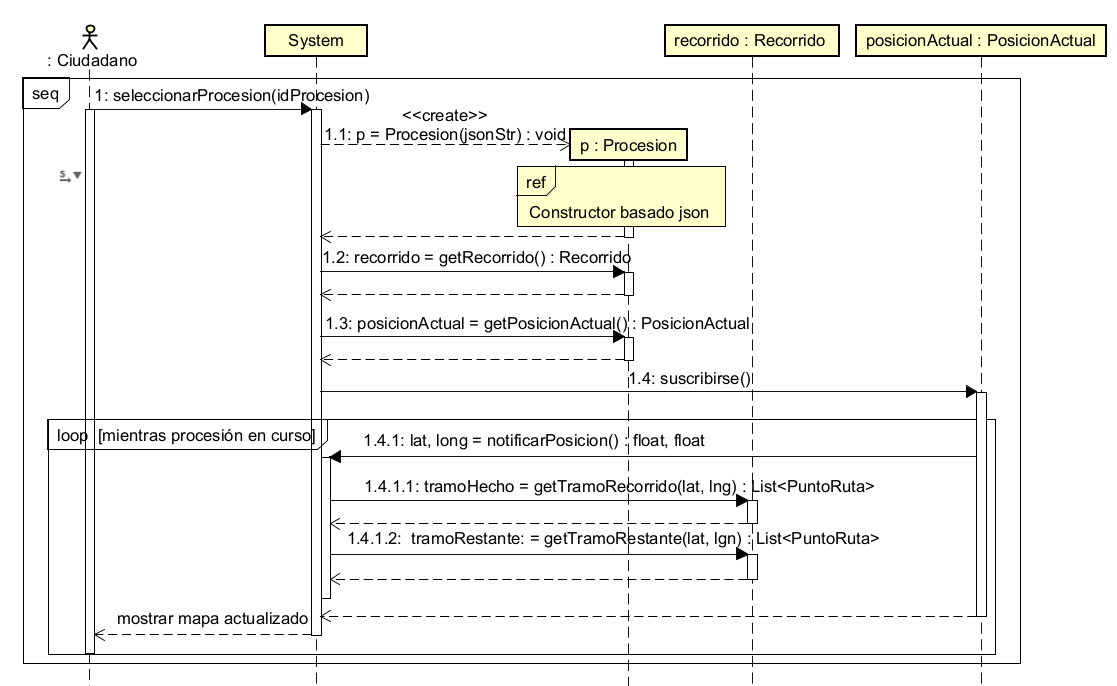
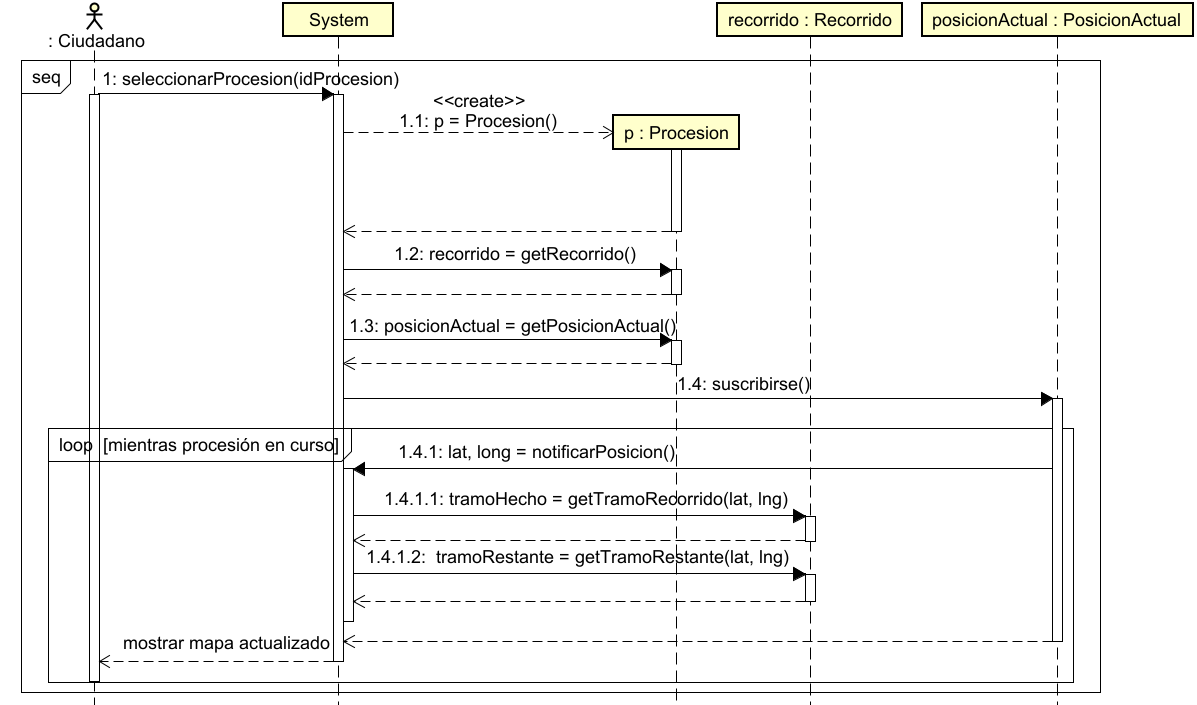
Add digramas de secuencia

diff --git a/memoria/apendices/casosDeUsoAdiccionales.tex b/memoria/apendices/casosDeUsoAdiccionales.tex
@@ -46,38 +46,40 @@ ef{cap:casos_de_uso}). Cada uno de ellos sigue la misma estructura que los prese
 
     \begin{tabular}{|p{4cm}|p{11cm}|}
         \hline
-        \multicolumn{2}{|l|}{\textbf{Caso de uso: Acceso como cofrade}}                                                                   \\
+        \multicolumn{2}{|l|}{\textbf{Caso de uso: Generar ruta hacia procesión}}                                \\
         \hline
-        \textbf{Resumen}                                                                                                                 & Un usuario se registra en la aplicación como miembro de una cofradía. \\
+        \textbf{Resumen}                                                                                       & El usuario genera una ruta desde su ubicación hasta una procesión.      \\
         \hline
-        \textbf{Actor}                                                                                                                   & Cofrade                                                               \\
+        \textbf{Actor}                                                                                         & Ciudadano                                                               \\
         \hline
-        \textbf{Precondición}                                                                                                            & El usuario no está registrado.                                        \\
+        \textbf{Precondición}                                                                                  & El usuario tiene permisos de ubicación y hay una procesión seleccionada \\
         \hline
-        \textbf{Postcondición}                                                                                                           & El usuario queda registrado y puede acceder a funciones de cofrade.   \\
+        \textbf{Postcondición}                                                                                 & Se muestra la ruta en el mapa                                           \\
         \hline
-        \multicolumn{2}{|l|}{\textbf{Secuencia Base}}                                                                                     \\
+        \multicolumn{2}{|l|}{\textbf{Secuencia Base}}                                                           \\
         \hline
-        \multicolumn{2}{|p{15cm}|}{ [1] El usuario selecciona la opción de registro. }                                                    \\
+        \multicolumn{2}{|p{15cm}|}{ [1] El usuario selecciona una procesión. }                                  \\
         \hline
-        \multicolumn{2}{|p{15cm}|}{ [2] El sistema muestra el formulario de registro (Introducir código de acceso para dicha cofradía). } \\
+        \multicolumn{2}{|p{15cm}|}{ [2] El usuario pulsa generar ruta. }                                        \\
         \hline
-        \multicolumn{2}{|p{15cm}|}{ [3] El usuario introduce el código de acceso de la cofradía. }                                        \\
+        \multicolumn{2}{|p{15cm}|}{ [3] El sistema obtiene la ubicación del usuario. }                          \\
         \hline
-        \multicolumn{2}{|p{15cm}|}{ [4] El sistema valida el código. }                                                                    \\
+        \multicolumn{2}{|p{15cm}|}{ [4] El sistema calcula la ruta óptima. }                                    \\
         \hline
-        \multicolumn{2}{|p{15cm}|}{ [5] El sistema muestra mensaje informando del correcto acceso. }                                      \\
+        \multicolumn{2}{|p{15cm}|}{ [5] El sistema muestra la ruta en el mapa. }                                \\
         \hline
-        \multicolumn{2}{|l|}{\textbf{Secuencia Alternativa}}                                                                              \\
+        \multicolumn{2}{|l|}{\textbf{Secuencia Alternativa}}                                                    \\
         \hline
-        \multicolumn{2}{|p{15cm}|}{ [3.a.1] Cancelación de la operación: El usuario desea cancelar la operacion. }                           \\
+        \multicolumn{2}{|p{15cm}|}{ [3.a.1] Sin permisos de ubicación: El sistema solicita permisos. }          \\
         \hline
-        \multicolumn{2}{|p{15cm}|}{ [5.a.1] Codigo inválido: El sistema muestra los errores de validación. }                              \\
+        \multicolumn{2}{|p{15cm}|}{ [4.a.1] Sin conexión: El sistema muestra error de conexión. }               \\
         \hline
-        \textbf{Requisitos Relacionados}                                                                                                 & RF-02.                                                                \\
+        \multicolumn{2}{|p{15cm}|}{ [5.a.1] Cancelación de la operación: El usuario desea cancelar la operacion. } \\
+        \hline
+        \textbf{Requisitos Relacionados}                                                                       & RF-07 y RF-17.                                                          \\
         \hline
     \end{tabular}
-    \caption{Caso de uso: Acceso como cofrade}
+    \caption{Caso de uso: Generar ruta hacia procesión}
 \end{table}
 
 
@@ -450,4 +452,87 @@ ef{cap:casos_de_uso}). Cada uno de ellos sigue la misma estructura que los prese
         \hline
     \end{tabular}
     \caption{Caso de uso: Definir recorrido de procesión}
+\end{table}
+
+\begin{table}[h!]
+    \centering
+    \renewcommand{\arraystretch}{1.5}
+
+    \begin{tabular}{|p{4cm}|p{11cm}|}
+        \hline
+        \multicolumn{2}{|l|}{\textbf{Caso de uso: Editar ciudad}}                                                           \\
+        \hline
+        \textbf{Resumen}                                                                                                    & El administrador modifica los datos de una ciudad existente.                                                         \\
+        \hline
+        \textbf{Actor}                                                                                                      & Administrador                                                                                                         \\
+        \hline
+        \textbf{Precondición}                                                                                               & El usuario tiene rol de Administrador y existe al menos una ciudad registrada.                                       \\
+        \hline
+        \textbf{Postcondición}                                                                                              & Los datos de la ciudad quedan actualizados en el sistema.                                                            \\
+        \hline
+        \multicolumn{2}{|l|}{\textbf{Secuencia Base}}                                                                       \\
+        \hline
+        \multicolumn{2}{|p{15cm}|}{ [1] El usuario accede al panel de administración. }                                     \\
+        \hline
+        \multicolumn{2}{|p{15cm}|}{ [2] El sistema muestra la lista de ciudades existentes. }                               \\
+        \hline
+        \multicolumn{2}{|p{15cm}|}{ [3] El usuario selecciona la ciudad que desea editar. }                                 \\
+        \hline
+        \multicolumn{2}{|p{15cm}|}{ [4] El usuario modifica los datos de la ciudad. }                                       \\
+        \hline
+        \multicolumn{2}{|p{15cm}|}{ [5] El sistema valida y guarda los cambios. }                                           \\
+        \hline
+        \multicolumn{2}{|l|}{\textbf{Secuencia Alternativa}}                                                                \\
+        \hline
+        \multicolumn{2}{|p{15cm}|}{ [4.a.1] Cancelación de la operación: El usuario desea cancelar la operación. }          \\
+        \hline
+        \multicolumn{2}{|p{15cm}|}{ [5.a.1] Datos incompletos: El sistema muestra los campos requeridos. }                  \\
+        \hline
+        \textbf{Requisitos Relacionados}                                                                                    & RF-26.                                                                                                                \\
+        \hline
+    \end{tabular}
+    \caption{Caso de uso: Editar ciudad}
+\end{table}
+
+
+\begin{table}[h!]
+    \centering
+    \renewcommand{\arraystretch}{1.5}
+
+    \begin{tabular}{|p{4cm}|p{11cm}|}
+        \hline
+        \multicolumn{2}{|l|}{\textbf{Caso de uso: Dar de baja ciudad}}                                                      \\
+        \hline
+        \textbf{Resumen}                                                                                                    & El administrador retira una ciudad disponible de la aplicación.                                                      \\
+        \hline
+        \textbf{Actor}                                                                                                      & Administrador                                                                                                         \\
+        \hline
+        \textbf{Precondición}                                                                                               & El usuario tiene rol de Administrador y existe al menos una ciudad registrada.                                       \\
+        \hline
+        \textbf{Postcondición}                                                                                              & La ciudad deja de estar disponible en el sistema.                                                                    \\
+        \hline
+        \multicolumn{2}{|l|}{\textbf{Secuencia Base}}                                                                       \\
+        \hline
+        \multicolumn{2}{|p{15cm}|}{ [1] El usuario accede al panel de administración. }                                     \\
+        \hline
+        \multicolumn{2}{|p{15cm}|}{ [2] El sistema muestra la lista de ciudades existentes. }                               \\
+        \hline
+        \multicolumn{2}{|p{15cm}|}{ [3] El usuario selecciona la ciudad que desea eliminar. }                               \\
+        \hline
+        \multicolumn{2}{|p{15cm}|}{ [4] El sistema comprueba si la ciudad tiene datos asociados (cofradías, eventos o procesiones). }  \\
+        \hline
+        \multicolumn{2}{|p{15cm}|}{ [5] El usuario confirma la eliminación. }                                               \\
+        \hline
+        \multicolumn{2}{|p{15cm}|}{ [6] El sistema elimina la ciudad. }                                                     \\
+        \hline
+        \multicolumn{2}{|l|}{\textbf{Secuencia Alternativa}}                                                                \\
+        \hline
+        \multicolumn{2}{|p{15cm}|}{ [4.a.1] Ciudad con datos asociados: El sistema advierte de que la ciudad tiene cofradías, eventos o procesiones registrados antes de continuar. } \\
+        \hline
+        \multicolumn{2}{|p{15cm}|}{ [5.a.1] Cancelación de la operación: El usuario desea cancelar la eliminación. }        \\
+        \hline
+        \textbf{Requisitos Relacionados}                                                                                    & RF-26.                                                                                                                \\
+        \hline
+    \end{tabular}
+    \caption{Caso de uso: Dar de baja ciudad}
 \end{table}

diff --git a/memoria/40_analisis/4_modelo_de_dominio.tex b/memoria/40_analisis/4_modelo_de_dominio.tex
@@ -14,7 +14,43 @@ En esta sección se detalla el diseño conceptual del sistema, incluyendo las en
 
 En este apartado se mostrarán los diagramas de secuencia obtenidos del análisis a partir de los casos de uso mencionados anteriormente. Se han excluido de esta sección las secuencias alternativas de cancelar con el fin de simplificar los diagramas.
 
-FALTAN LOS DIAGRMAS DE SECUENCIA!!!!!!!!!!!!!!!!!!!!!!!!!
+Para el caso de uso \textit{Visualizar procesión en tiempo real} (Figura~\ref{fig:secVisualizarProcesion}), el ciudadano selecciona una procesión activa y el sistema obtiene la instancia de \texttt{Procesion} correspondiente, junto con su recorrido planificado, y se suscribe a las actualizaciones de su posición actual. Mientras la procesión está en curso, el sistema recalcula sobre el recorrido el tramo ya realizado y el tramo restante en función de la posición recibida, para mantener el mapa del usuario actualizado.
+
+\begin{figure}[H]
+\centering
+\includegraphics[width=1\textwidth,keepaspectratio]{imagenes/diagramaSecuenciaVisualizarProcesion.png}
+\caption{Diagrama de secuencia del CU ``Visualizar procesión en tiempo real''}
+\label{fig:secVisualizarProcesion}
+\end{figure}
+
+En el caso de uso \textit{Compartir ubicación durante procesión} (Figura~\ref{fig:secCompartirUbicacion}), el cofrade accede a la procesión activa de su cofradía y activa la opción de compartir su ubicación. El sistema solicita los permisos de localización si no los tiene concedidos: si el cofrade los deniega, se le informa de que no es posible compartir la ubicación sin permiso; si los concede, el sistema comienza a actualizar de forma periódica la posición del cofrade mientras la procesión sigue en curso.
+
+\begin{figure}[H]
+\centering
+\includegraphics[width=1\textwidth,keepaspectratio]{imagenes/diagramaSecuenciaCompartirUbicacion.png}
+\caption{Diagrama de secuencia del CU ``Compartir ubicación durante procesión''}
+\label{fig:secCompartirUbicacion}
+\end{figure}
+
+En el caso de uso \textit{Acceso como cofrade} (Figura~\ref{fig:secAccesoCofrade}), el usuario selecciona la opción de registro y el sistema le muestra el formulario correspondiente. Al introducir el código de acceso de su cofradía, el sistema obtiene el \texttt{CodigoAcceso} correspondiente y lo valida, informando al usuario del acceso correcto o de un error de validación según el resultado.
+
+\begin{figure}[H]
+\centering
+\includegraphics[width=1\textwidth,keepaspectratio]{imagenes/diagramaSecuenciaAccesoCofrade.png}
+\caption{Diagrama de secuencia del CU ``Acceso como cofrade''}
+\label{fig:secAccesoCofrade}
+\end{figure}
+
+En el caso de uso \textit{Dar de alta ciudad} (Figura~\ref{fig:secAltaCiudad}), el administrador accede al panel de administración, donde el sistema le muestra la lista de ciudades existentes, y selecciona la opción de añadir una nueva ciudad. Tras introducir los datos, el sistema construye la instancia de \texttt{Ciudad} correspondiente y valida los datos introducidos, repitiendo la solicitud hasta que estos son válidos, momento en el que la ciudad queda dada de alta.
+
+\begin{figure}[H]
+\centering
+\includegraphics[width=1\textwidth,keepaspectratio]{imagenes/diagramaSecuenciaAltaCiudad.png}
+\caption{Diagrama de secuencia del CU ``Dar de alta ciudad''}
+\label{fig:secAltaCiudad}
+\end{figure}
+
+% TODO: diagramas de secuencia pendientes de añadir - Editar ciudad, Dar de baja ciudad y Crear alerta.
 
 \subsection{Modelo de dominio detallado}
 

diff --git a/memoria/40_analisis/3_casos_de_uso.tex b/memoria/40_analisis/3_casos_de_uso.tex
@@ -224,15 +224,15 @@ En las siguientes tablas se exponen los cinco casos de uso más representativos 
 
     \begin{tabular}{|p{4cm}|p{11cm}|}
         \hline
-        \multicolumn{2}{|l|}{\textbf{Caso de uso: Gestionar ciudades disponibles}}                                          \\
+        \multicolumn{2}{|l|}{\textbf{Caso de uso: Dar de alta ciudad}}                                                      \\
         \hline
-        \textbf{Resumen}                                                                                                    & El administrador da de alta, edita o retira ciudades disponibles en la aplicación.                                    \\
+        \textbf{Resumen}                                                                                                    & El administrador da de alta una nueva ciudad disponible en la aplicación.                                            \\
         \hline
         \textbf{Actor}                                                                                                      & Administrador                                                                                                         \\
         \hline
         \textbf{Precondición}                                                                                               & El usuario tiene rol de Administrador.                                                                               \\
         \hline
-        \textbf{Postcondición}                                                                                              & La lista de ciudades disponibles queda actualizada en el sistema.                                                    \\
+        \textbf{Postcondición}                                                                                              & La nueva ciudad queda disponible en el sistema.                                                                      \\
         \hline
         \multicolumn{2}{|l|}{\textbf{Secuencia Base}}                                                                       \\
         \hline
@@ -240,11 +240,11 @@ En las siguientes tablas se exponen los cinco casos de uso más representativos 
         \hline
         \multicolumn{2}{|p{15cm}|}{ [2] El sistema muestra la lista de ciudades existentes. }                               \\
         \hline
-        \multicolumn{2}{|p{15cm}|}{ [3] El usuario selecciona añadir, editar o eliminar una ciudad. }                       \\
+        \multicolumn{2}{|p{15cm}|}{ [3] El usuario selecciona la opción de añadir ciudad. }                                 \\
         \hline
-        \multicolumn{2}{|p{15cm}|}{ [4] El usuario introduce o modifica los datos de la ciudad. }                           \\
+        \multicolumn{2}{|p{15cm}|}{ [4] El usuario introduce los datos de la nueva ciudad. }                                \\
         \hline
-        \multicolumn{2}{|p{15cm}|}{ [5] El sistema valida y guarda los cambios. }                                           \\
+        \multicolumn{2}{|p{15cm}|}{ [5] El sistema valida y guarda la nueva ciudad. }                                       \\
         \hline
         \multicolumn{2}{|l|}{\textbf{Secuencia Alternativa}}                                                                \\
         \hline
@@ -252,11 +252,8 @@ En las siguientes tablas se exponen los cinco casos de uso más representativos 
         \hline
         \multicolumn{2}{|p{15cm}|}{ [5.a.1] Datos incompletos: El sistema muestra los campos requeridos. }                  \\
         \hline
-        \multicolumn{2}{|p{15cm}|}{ [3.a.1] Ciudad con datos asociados: El sistema advierte antes de eliminar una ciudad que tenga cofradías, eventos o procesiones registrados. } \\
-        \hline
         \textbf{Requisitos Relacionados}                                                                                    & RF-26.                                                                                                                \\
         \hline
     \end{tabular}
-    \caption{Caso de uso: Gestionar ciudades disponibles}
+    \caption{Caso de uso: Dar de alta ciudad}
 \end{table}
-

diff --git a/memoria/proyecto.tex b/memoria/proyecto.tex
@@ -98,6 +98,8 @@ en semana santa.}
 
 \hypersetup{
 pdfauthor = {\myName (autor/a [at] gmail [dot] com)},
+pdftutor1 = {\myProf (tutor/a [at] gmail [dot] com)},
+pdftutor2 = {\myOtherProf (tutor/a [at] gmail [dot] com)},
 pdftitle = {\myTitle},
 pdfsubject = {},
 % TODO